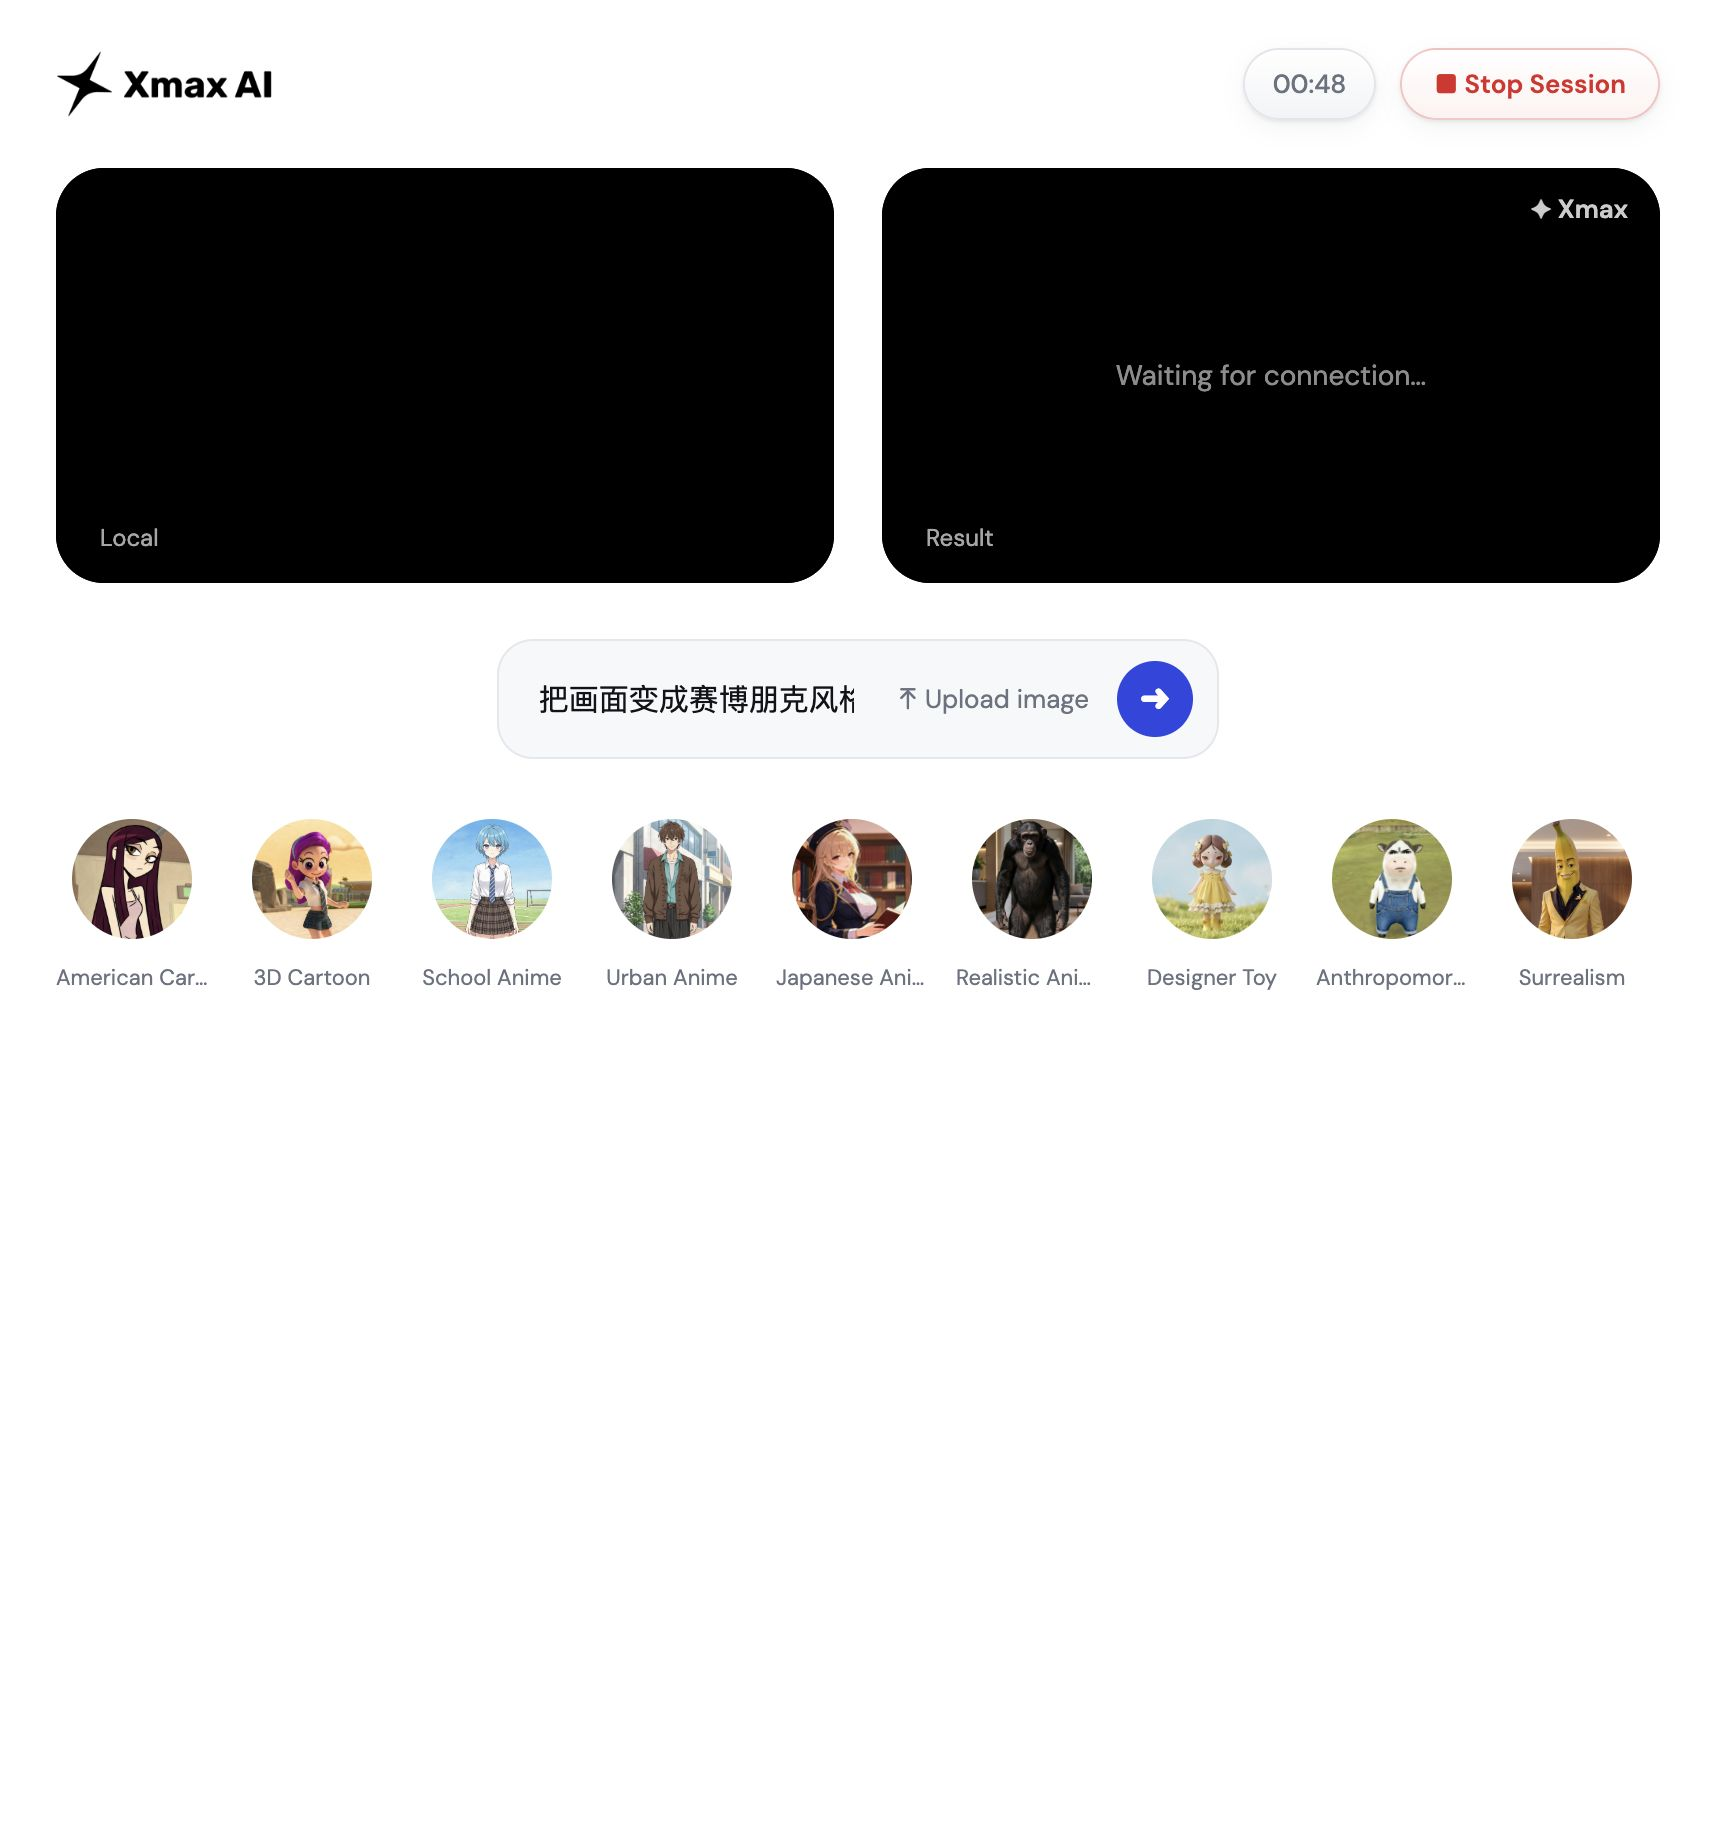
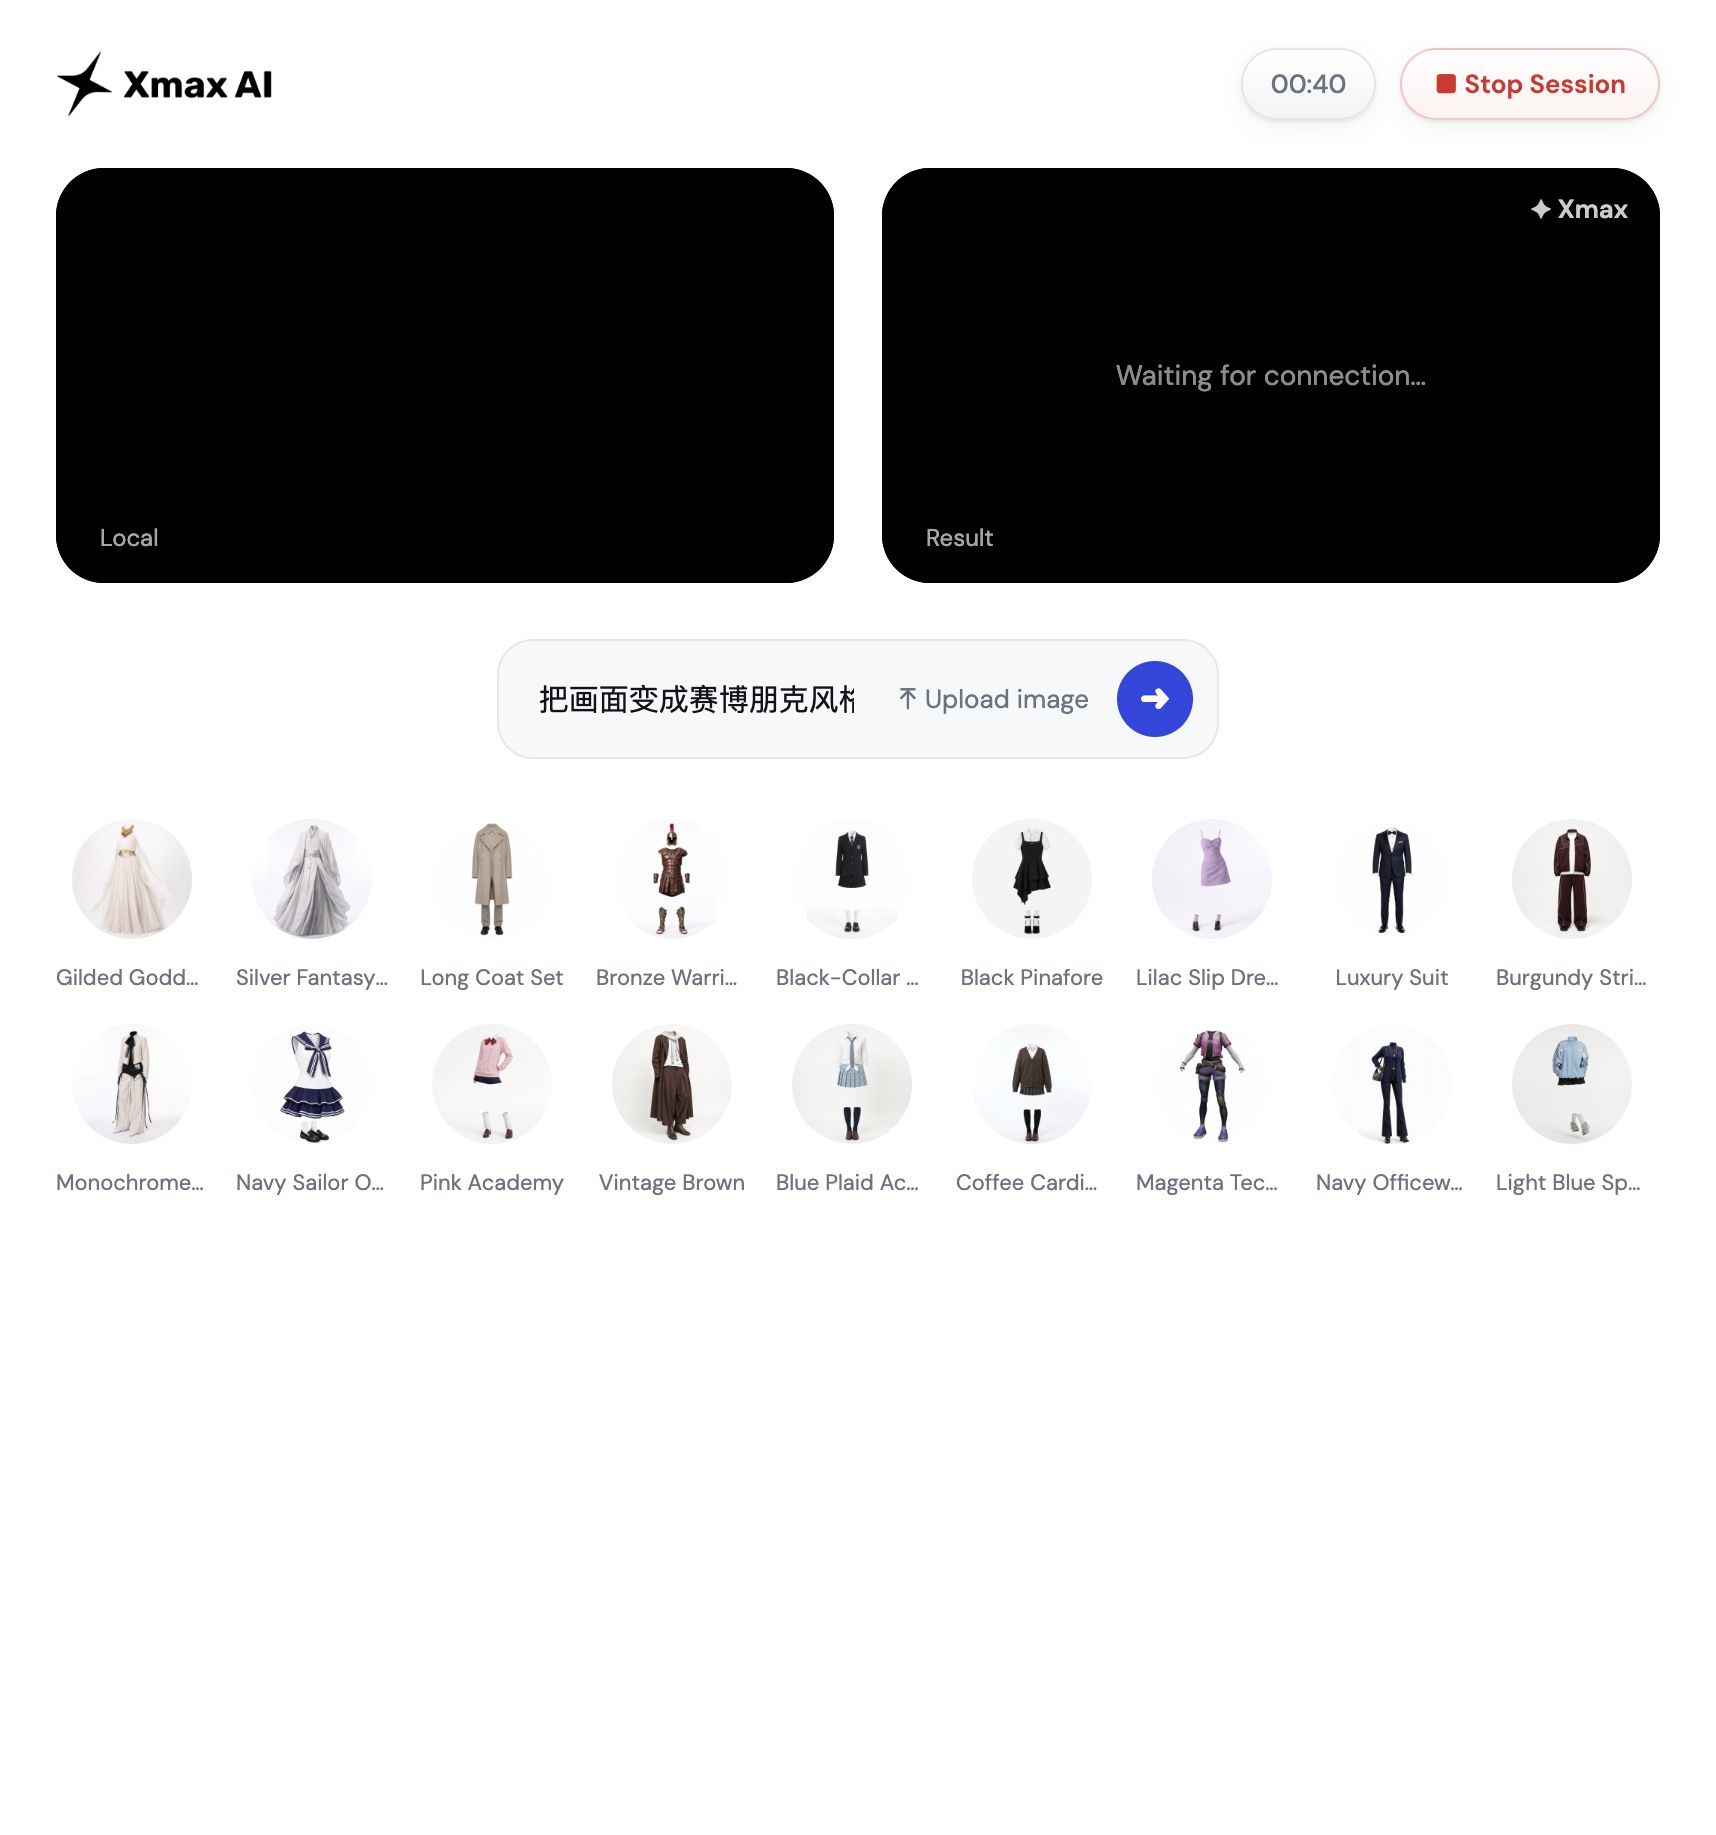
feat: arrange example presets in two rows with wheel and drag scrolling

diff --git a/examples/xlab-react/src/App.tsx b/examples/xlab-react/src/App.tsx
@@ -10,6 +10,7 @@ import {
   XmaxEnvironment,
   XmaxLoggerOption,
   type RealtimeMediaStream,
+  type RealtimeLaunchTiming,
   type RealtimeState,
   type XmaxRealtimeManaging,
 } from "@xmax/sdk";
@@ -32,6 +33,10 @@ function formatElapsed(totalSeconds: number): string {
   const minutes = Math.floor(totalSeconds / 60);
   const seconds = totalSeconds % 60;
   return `${String(minutes).padStart(2, "0")}:${String(seconds).padStart(2, "0")}`;
+}
+
+function formatLaunchTiming(milliseconds?: number): string {
+  return milliseconds === undefined ? "—" : `${Math.round(milliseconds)} ms`;
 }
 
 export function App() {
@@ -57,6 +62,7 @@ export function App() {
     RealtimeConnectionState.idle,
   );
   const [elapsedSeconds, setElapsedSeconds] = useState(0);
+  const [launchTiming, setLaunchTiming] = useState<RealtimeLaunchTiming>({});
   const [errorText, setErrorText] = useState("");
   const [busy, setBusy] = useState(false);
 
@@ -64,6 +70,7 @@ export function App() {
   const fileInputRef = useRef<HTMLInputElement>(null);
   const wechatRef = useRef<HTMLDivElement>(null);
   const keyFieldRef = useRef<HTMLDivElement>(null);
+  const presetRowRef = useRef<HTMLDivElement>(null);
 
   // 点击微信图标外部时收起二维码弹层。
   useEffect(() => {
@@ -135,6 +142,77 @@ export function App() {
   }, []);
 
   const sessionActive = localStream !== undefined;
+
+  // 预设列表滚动：纵向滚轮映射为横向滚动，左键按住可拖拽滚动。
+  useEffect(() => {
+    const row = presetRowRef.current;
+    if (!row) {
+      return;
+    }
+
+    const handleWheel = (event: WheelEvent) => {
+      if (Math.abs(event.deltaY) > Math.abs(event.deltaX)) {
+        event.preventDefault();
+        row.scrollLeft += event.deltaY;
+      }
+    };
+
+    let dragging = false;
+    let moved = false;
+    let startX = 0;
+    let startScrollLeft = 0;
+
+    const handlePointerDown = (event: PointerEvent) => {
+      if (event.button !== 0) {
+        return;
+      }
+      dragging = true;
+      moved = false;
+      startX = event.clientX;
+      startScrollLeft = row.scrollLeft;
+      row.setPointerCapture(event.pointerId);
+    };
+    const handlePointerMove = (event: PointerEvent) => {
+      if (!dragging) {
+        return;
+      }
+      const deltaX = event.clientX - startX;
+      if (Math.abs(deltaX) > 4) {
+        moved = true;
+        row.classList.add("dragging");
+      }
+      row.scrollLeft = startScrollLeft - deltaX;
+    };
+    const handlePointerEnd = (event: PointerEvent) => {
+      dragging = false;
+      row.classList.remove("dragging");
+      if (row.hasPointerCapture(event.pointerId)) {
+        row.releasePointerCapture(event.pointerId);
+      }
+    };
+    const handleClickCapture = (event: MouseEvent) => {
+      if (moved) {
+        event.preventDefault();
+        event.stopPropagation();
+        moved = false;
+      }
+    };
+
+    row.addEventListener("wheel", handleWheel, { passive: false });
+    row.addEventListener("pointerdown", handlePointerDown);
+    row.addEventListener("pointermove", handlePointerMove);
+    row.addEventListener("pointerup", handlePointerEnd);
+    row.addEventListener("pointercancel", handlePointerEnd);
+    row.addEventListener("click", handleClickCapture, true);
+    return () => {
+      row.removeEventListener("wheel", handleWheel);
+      row.removeEventListener("pointerdown", handlePointerDown);
+      row.removeEventListener("pointermove", handlePointerMove);
+      row.removeEventListener("pointerup", handlePointerEnd);
+      row.removeEventListener("pointercancel", handlePointerEnd);
+      row.removeEventListener("click", handleClickCapture, true);
+    };
+  }, [sessionActive]);
   const isConnected =
     stateText === RealtimeConnectionState.connected ||
     stateText === RealtimeConnectionState.generating;
@@ -169,6 +247,11 @@ export function App() {
         new RealtimeConfiguration({ model }),
       );
       realtimeRef.current = realtime;
+      await realtime.setLaunchTimingListener((timing) => {
+        if (realtimeRef.current === realtime) {
+          setLaunchTiming(timing);
+        }
+      });
       await attachStateListener(realtime);
       const stream = await realtime.createLocalCameraStream({
         videoFormat: CAMERA_VIDEO_FORMAT,
@@ -556,6 +639,12 @@ export function App() {
             style={{ width: "100%", height: "100%" }}
           />
           <span className="stageLabel">Local</span>
+          <dl className="launchTiming" aria-label="启动耗时统计">
+            <div><dt>打开摄像头</dt><dd>{formatLaunchTiming(launchTiming.cameraMs)}</dd></div>
+            <div><dt>建立连接</dt><dd>{formatLaunchTiming(launchTiming.connectionMs)}</dd></div>
+            <div><dt>首帧到达</dt><dd>{formatLaunchTiming(launchTiming.firstFrameMs)}</dd></div>
+            <div className="launchTimingTotal"><dt>完整启动耗时</dt><dd>{formatLaunchTiming(launchTiming.totalMs)}</dd></div>
+          </dl>
         </div>
         <div className="stage">
           <XmaxVideo
@@ -626,7 +715,7 @@ export function App() {
       )}
 
       <div className="examplesSection">
-        <div className="presetRow">
+        <div className="presetRow" ref={presetRowRef}>
           {EXAMPLE_PRESETS.map((preset) => (
             <button
               key={preset.name}

diff --git a/examples/xlab-react/src/styles.css b/examples/xlab-react/src/styles.css
@@ -359,6 +359,42 @@ button:disabled {
   padding: 3px 8px;
 }
 
+.launchTiming {
+  position: absolute;
+  top: 12px;
+  left: 14px;
+  margin: 0;
+  padding: 10px 12px;
+  border: 1px solid rgba(255, 255, 255, 0.12);
+  border-radius: 10px;
+  background: rgba(0, 0, 0, 0.6);
+  color: rgba(255, 255, 255, 0.9);
+  font-size: 12px;
+  line-height: 1.6;
+  pointer-events: none;
+}
+
+.launchTiming > div {
+  display: flex;
+  justify-content: space-between;
+  gap: 20px;
+}
+
+.launchTiming dd {
+  margin: 0;
+  min-width: 64px;
+  text-align: right;
+  font-family: ui-monospace, SFMono-Regular, Menlo, monospace;
+  font-variant-numeric: tabular-nums;
+}
+
+.launchTimingTotal {
+  margin-top: 5px;
+  padding-top: 5px;
+  border-top: 1px solid rgba(255, 255, 255, 0.18);
+  font-weight: 600;
+}
+
 .watermark {
   position: absolute;
   top: 12px;
@@ -464,14 +500,29 @@ button:disabled {
 }
 
 .presetRow {
-  display: flex;
+  display: grid;
+  grid-auto-flow: column;
+  grid-template-rows: repeat(2, auto);
+  justify-content: start;
   gap: 14px;
   overflow-x: auto;
   padding-bottom: 8px;
+  scrollbar-width: none;
+  cursor: grab;
+  user-select: none;
+  -webkit-user-select: none;
+}
+
+.presetRow::-webkit-scrollbar {
+  display: none;
+}
+
+.presetRow.dragging {
+  cursor: grabbing;
+  scroll-behavior: auto;
 }
 
 .presetItem {
-  flex-shrink: 0;
   width: 76px;
   border: none;
   background: transparent;
@@ -486,6 +537,7 @@ button:disabled {
   object-fit: cover;
   border: 2px solid transparent;
   transition: border-color 0.15s ease;
+  pointer-events: none;
 }
 
 .presetItem span {
